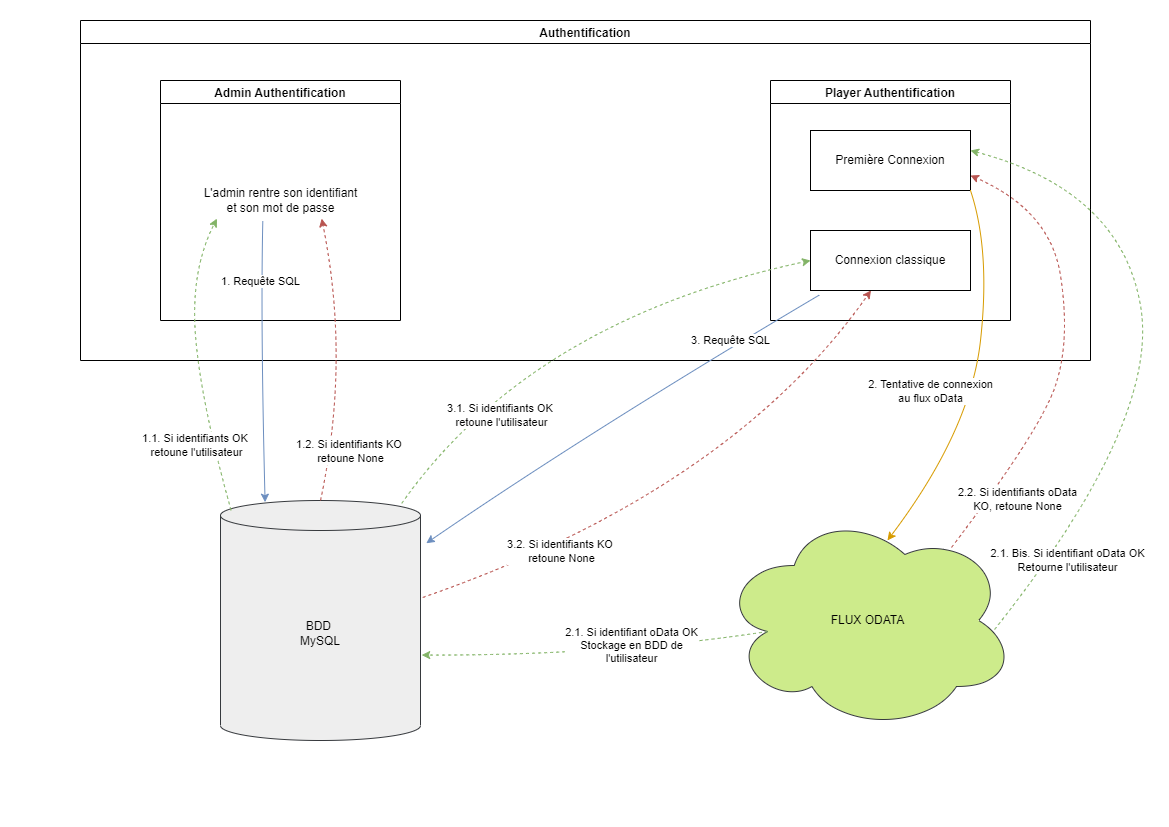
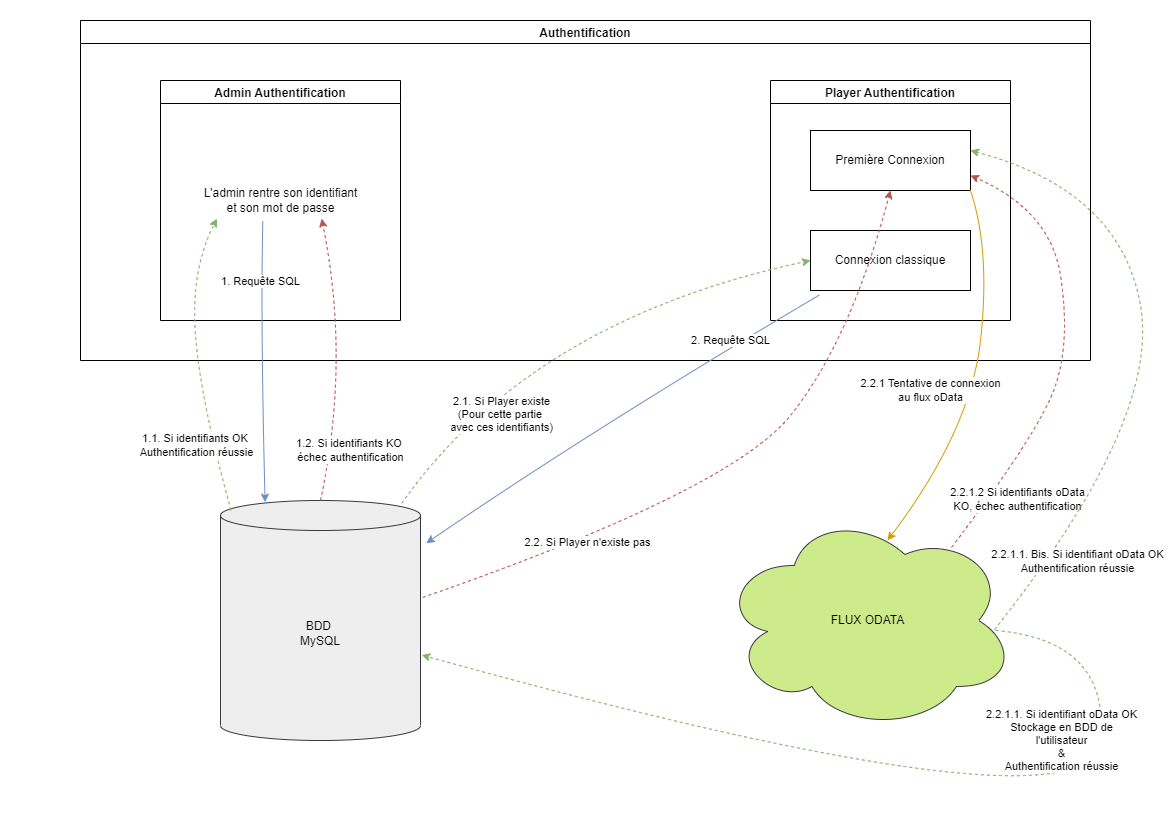
Updates on Notion

diff --git a/Sphinx/docs/source/conf.py b/Sphinx/docs/source/conf.py
@@ -20,7 +20,7 @@ print(src_p.resolve().as_posix())
 
 # -- Project information -----------------------------------------------------
 
-project = 'ERPsim Documentation'
+project = 'ERPsim Helper Documentation'
 copyright = '2022, M2-G2'
 author = 'M2-G2'
 
@@ -62,4 +62,4 @@ html_theme = 'sphinx_rtd_theme'
 html_static_path = ['_static']
 
 # To make pdf files
-pdf_stylesheets = ['twocolumn']
+# pdf_stylesheets = ['twocolumn']

diff --git a/Sphinx/docs/source/PartieTechnique/Architecture.rst b/Sphinx/docs/source/PartieTechnique/Architecture.rst
@@ -30,7 +30,7 @@ ERPsim.
    *Schéma du fonctionnement de l'authentification* 
 
 Comme c'est montré ci-dessus, il faut gérer l'authentification de l'administrateur mais aussi celle de l'étudiant. Dans un premier
-temps, pour vérifier l'identiant de l'administrateur.
+temps, pour vérifier l'identifiant de l'administrateur.
 
 ^^^^^^^^^^^^^^^^^^^^^^^^^^^^^^^^^^^^
 Authentification de l'administrateur
@@ -43,7 +43,9 @@ est renvoyé, sinon c'est l'objet `user` qui est renvoyé. Dans ce dernier cas, 
 Authentification du joueur
 ^^^^^^^^^^^^^^^^^^^^^^^^^^
 
-Ensuite, c'est à l'étudiant de se connecter. A ce moment là, deux situations peuvent survenir. 
+Ensuite, c'est à l'étudiant de se connecter. Dans un premier temps, le programme va chercher dans la base de données 
+les identifiants renseignés. Si les identifiants ne sont pas en stocké, c'est que l'utilisateur se connecte pour la 
+première fois. Sinon, il s'est déja connecté auparavant. 
 
 .. _premiere_connexion:
 
@@ -51,19 +53,17 @@ Ensuite, c'est à l'étudiant de se connecter. A ce moment là, deux situations 
 Première connexion
 """"""""""""""""""
 
-Soit l'étudiant se connecte pour la première
-fois, le compte n'existe donc pas en base. Alors, le programme récupère les informations rentrés dans le :ref:`formulaire d'authentification<connexion_joueur>`.
-pour les tester sur le flux oData. Si la connexion fonctionne, alors l'utilisateur est sauvegardé en base de données, sinon, le programme
-renvoie `None`.
+Dans cette situation, le programme récupère les informations rentrés dans le :ref:`formulaire d'authentification<connexion_joueur>`.
+pour les tester sur le flux oData. Si la connexion fonctionne, alors l'utilisateur est sauvegardé en base de données, il est authentifié, sinon 
+l'authentification échoue. 
 
 """""""""""""""
 Nième connexion
 """""""""""""""
 
-Soit l'étudiant ne se connecte pas pour la première fois, à ce moment là, son compte existe en base. Le programme compare donc 
-alors les informations rentrés dans le :ref:`formulaire d'authentification<connexion_joueur>` avec les informations qui ont été 
+Dans ce cas, le programme compare donc alors les informations rentrés dans le :ref:`formulaire d'authentification<connexion_joueur>` avec les informations qui ont été 
 sauvegardés lors de sa première connexion. Si les informations correspondent, alors il est connecté, le programme renvoie son `user`, sinon, le programme renvoie
-`None`
+`None`, l'authentification échoue.
 
 .. _extractiondata:
 
@@ -73,9 +73,9 @@ L'extraction des données brutes
 
 La connexion de l'étudiant à son espace d'aide, lance le programme de rechargements de données. 
 
-.. figure:: ../_static/img/FluxDonnees.png
+.. figure:: ../_static/img/FluxDonnees-2.png
    :align: center
-   :target: ../../_images/FluxDonnees.png
+   :target: ../../_images/FluxDonnees-2.png
 
    *Schéma du fonctionnement de l'extraction des données brutes*
 
@@ -108,8 +108,8 @@ joueur.
 
 .. [#f1] Redis : Redis est un système de gestion de base de données *(Wikipédia)*
 
-=============
-What's Next ?
-=============
+================
+Lecture suivante
+================
 
 Dans la :ref:`section suivante<code_source>`, vous retrouverez le code source du projet. 

diff --git a/Sphinx/docs/source/PartieTechnique/Installation.rst b/Sphinx/docs/source/PartieTechnique/Installation.rst
@@ -34,9 +34,9 @@ Les différents packages utilisés sont :
 
 .. literalinclude:: ../../../../requirements.txt
 
-======================      =======     ======================================================
+======================      =======     ============================================================================
 Packages                    Version     Utilité
-======================      =======     ======================================================
+======================      =======     ============================================================================
 Django                      3.2.11      Pour les interfaces admin et player
 python-dotenv               0.19.2      Package système pour les identifiants et mots de passe
 python-dotenv[cli]          0.19.2      Package système pour les identifiants et mots de passe
@@ -44,8 +44,8 @@ huey                        2.4.3       Pour gérer les tâches pour les recharg
 redis                       4.1.0       Pour stocker les tâches de rechargements
 mysql-connector-python      8.0.26      Pour stocker les données dans la base de données MySQL
 pyodata                     1.7.1       Pour extraire les données du flux oData
-requests                    2.23.0      ???
-======================      =======     ======================================================
+requests                    2.23.0      Utilisé avec les sessions dans le cadre de la recupération des données oData
+======================      =======     ============================================================================
 
 ======
 Docker 
@@ -132,35 +132,10 @@ Documentation       docs               Build la documentation au lancement
 
 Docker installe lui-même toutes les librairies nécessaires grâce au fichier `requirements.txt`. 
 
-=====================
-Installation manuelle 
-=====================
-
-Vous pouvez toutefois, installer ces packages manuellement : 
-
-* Pour tout installer en une fois, vous pouvez effectuer la commande suivante
-
-.. code-block:: console
-
-    (.venv) $ pip install -r requirements.txt
-
-ou 
-
-.. code-block:: console
-
-    (.venv) $ pip3 install -r requirements.txt
-
-
-* Pour installer les packages un par un, utilisez la commande suivante en remplaçant les "..."" par le nom du package en question.
-
-.. code-block:: console
-
-   (.venv) $ pip install ...
-
 .. [#f1] `Documentation Microsoft <https://docs.microsoft.com/fr-fr/windows/wsl/install-manual#step-4---download-the-linux-kernel-update-package>`_
 
-=============
-What's Next ?
-=============
+================
+Lecture suivante
+================
 
 Dans la :ref:`section suivante <usage>`, vous trouverez un tutoriel pour utiliser notre aide pour ERPsim. 

diff --git a/Sphinx/docs/source/PartieUtilisateur/Usage.rst b/Sphinx/docs/source/PartieUtilisateur/Usage.rst
@@ -145,7 +145,7 @@ votre mot de passe utilisé sur le jeu ERPsim et le :ref:`numéro de la partie <
 par l'enseignant. 
 
 .. warning:: 
-   Le mot de passe par défaut sur ERPsim est *ERPsim*, il vous a été demandé de le 
+   Le mot de passe par défaut sur ERPsim est *ERPSIM*, il vous a été demandé de le 
    changer lors de votre première connexion au jeu. Pour accéder à l'aide, il faut bien entrer
    le NOUVEAU mot de passe que vous avez saisi. 
 
@@ -161,6 +161,9 @@ sur les :ref:`évolutions de l'entreprise <interface_evolution>`.
 
 .. note::   
    Ces pages sont mises à jour chaque minute, après chaque jour joué dans la simulation.
+
+.. warning::
+   Pour mettre à jour cette page, vous devez rafraîchir la page manuellement *(F5)*
 
 .. _interface_joueur:
 
@@ -209,8 +212,8 @@ la répartition des ventes par produit et par zone, mais aussi la répartition d
 Vous aurez ainsi, une vue d'ensemble sur l'état de l'entreprise, et pourrez prendre les meilleurs choix pour faire augmenter votre 
 company valuation. 
 
-=============
-What's Next ?
-=============
+================
+Lecture suivante
+================
 
 Dans la :ref:`section suivante <fonctionnement>`, vous retrouverez le fonctionnement général du projet. 

diff --git a/Sphinx/docs/source/index.rst b/Sphinx/docs/source/index.rst
@@ -5,7 +5,7 @@
 
 .. _Accueil:
 
-Welcome to ERPsim's documentation!
+ERPsim Helper Documentation
 ==================================
 
 .. figure:: _static/img/SAP.png
@@ -56,8 +56,8 @@ Check out the :doc:`PartieUtilisateur/Usage` section for further information, in
    :maxdepth: 3
    :caption: Table des matières
 
-   PartieTechnique/index
    PartieUtilisateur/index
+   PartieTechnique/index
    CadreProjet
 
 
@@ -72,8 +72,9 @@ Toto
 
 .. [#f1] BOT : Agent informatique capable de jouer en autonomie
 
-What's Next ?
-=============
+================
+Lecture suivante
+================
 
 Dans la :ref:`section suivante <installation>`, vous trouverez comment installer les modules et langages pour faire fonctionner 
 le projet. 

diff --git a/Sphinx/docs/source/PartieTechnique/CodeSource.rst b/Sphinx/docs/source/PartieTechnique/CodeSource.rst
@@ -30,8 +30,8 @@ What's used for visualization
 What's used for helping, prediction
 ===================================
 
-=============
-What's Next ?
-=============
+================
+Lecture suivante
+================
 
 Dans la :ref:`section suivante <cadre_projet>`, vous retrouverez le cadre du projet. 
